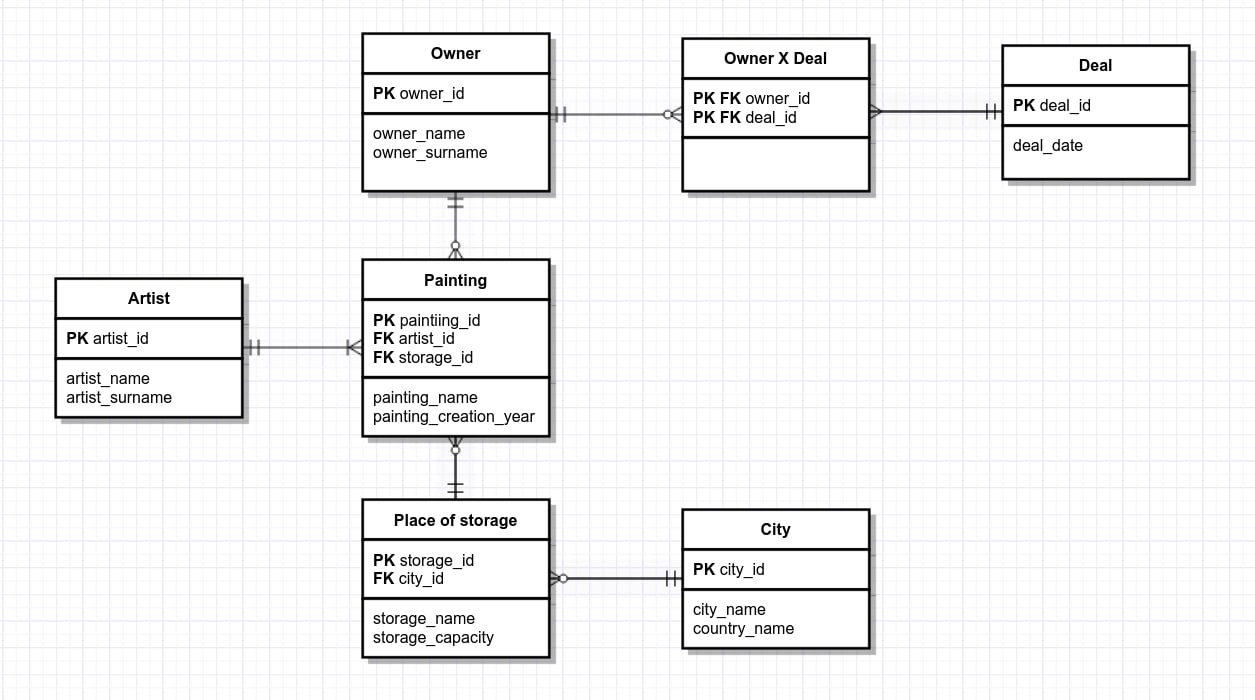
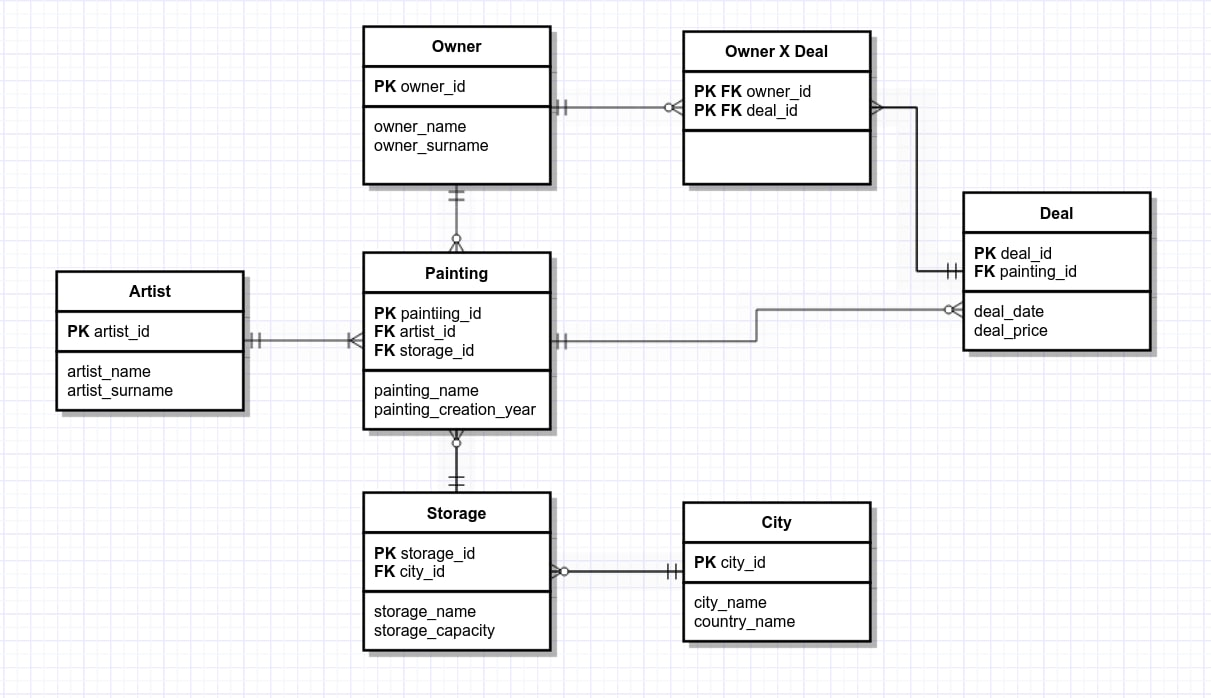
3

Changed region(s): [[0.0306, 0.3309, 0.7333, 0.9628], [0.275, 0.0301, 0.9777, 0.5115]]

diff --git a/README.md b/README.md
@@ -56,4 +56,17 @@
 |            | city_name    | Название города           | STRING   | NOT NULL       |
 |            | country_name | Название страны        | STRING   | NOT NULL       |
 
+| **Deal**  |             |                        |          |                                     |
+|-----------|-------------|------------------------|----------|-------------------------------------|
+| **PK/FK** | **Name**    | **Description**        | **Type** | **Constraint**                      |
+| PK        | deal_id     | Индентификатор сделки  | INTEGER  | PRIMARY KEY                         |
+| FK        | painting_id | Идентификатор картины  | INTEGER  | FK references Painting(painting_id) |
+|           | deal_date   | Дата проведения сделки | DATE     | CHECK(deal_date <= GETDATE())                         |
+|           | deal_price  | Стоимость картины      | INTEGER  | СHECK(deal_price >= 0)              |
+
+| **Deal**  |          |                         |          |                               |
+|-----------|----------|-------------------------|----------|-------------------------------|
+| **PK/FK** | **Name** | **Description**         | **Type** | **Constraint**                |
+| PK FK     | deal_id  | Индентификатор сделки   | INTEGER  | FK references Owner(owner_id) |
+| PK FK     | owner_id | Идентификатор участника сделки | INTEGER  | FK references Owner(owner_id) |
 
